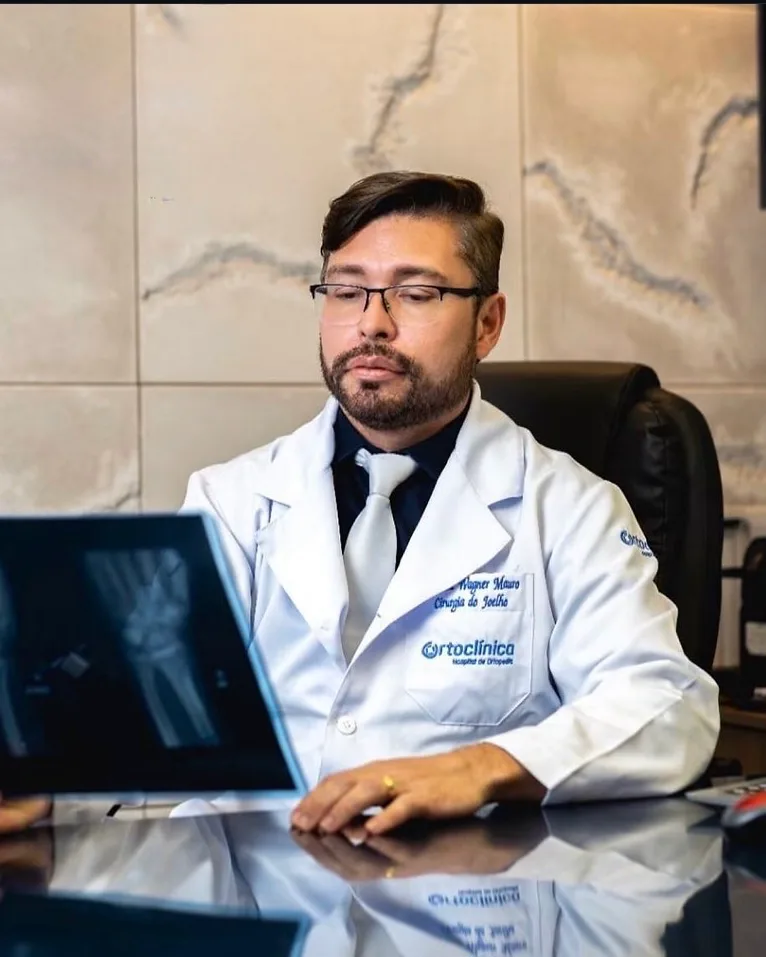
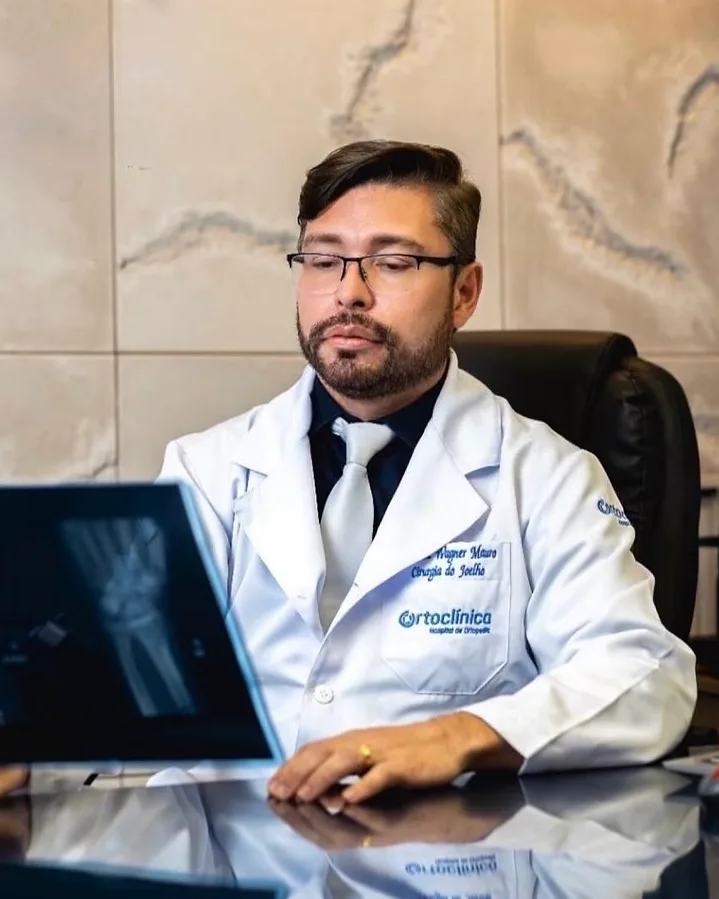
Show the about photos unfiltered and reframe the ambulatório one
The ambulatório photo carried a 4px black bar along its top edge, which
read as a dark line across the rounded card. Recrop from the original,
past the bar and 6% tighter, which also drops the black monitor that sat
in the top-right corner.

Drop the 20% black wash over the card images: it was there to keep the
tag pills legible, but the pills carry their own frosted background.

diff --git a/src/components/sections/About.tsx b/src/components/sections/About.tsx
@@ -95,8 +95,6 @@ export function About() {
                   alt={block.alt}
                   className="h-full w-full object-cover object-center transition-transform duration-500 ease-out group-hover:scale-[1.04]"
                 />
-                <div className="pointer-events-none absolute inset-0 bg-black/20" />
-
                 <div className="pointer-events-none absolute top-4 right-4 flex flex-wrap justify-end gap-2">
                   {block.tags.map((tag) => (
                     <span
